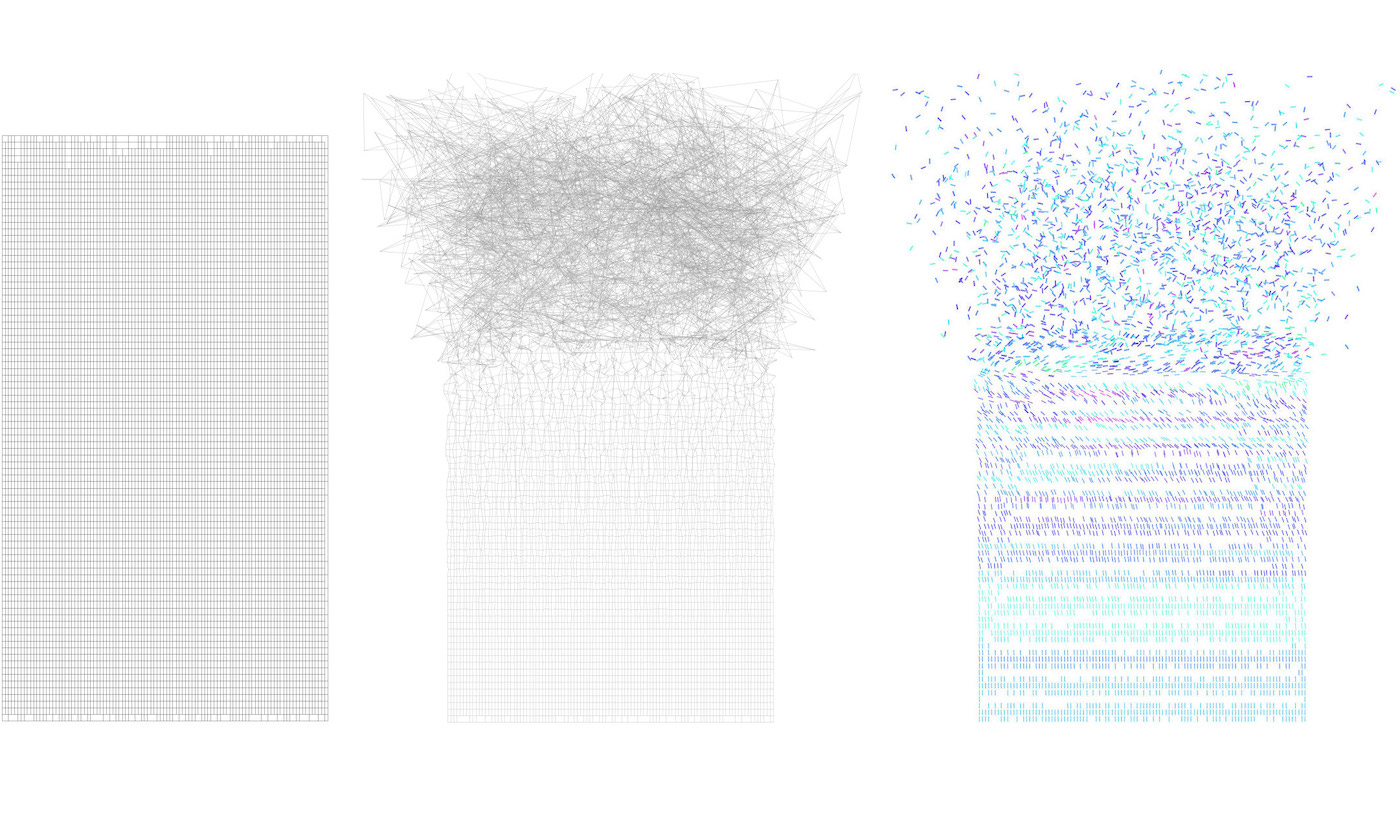
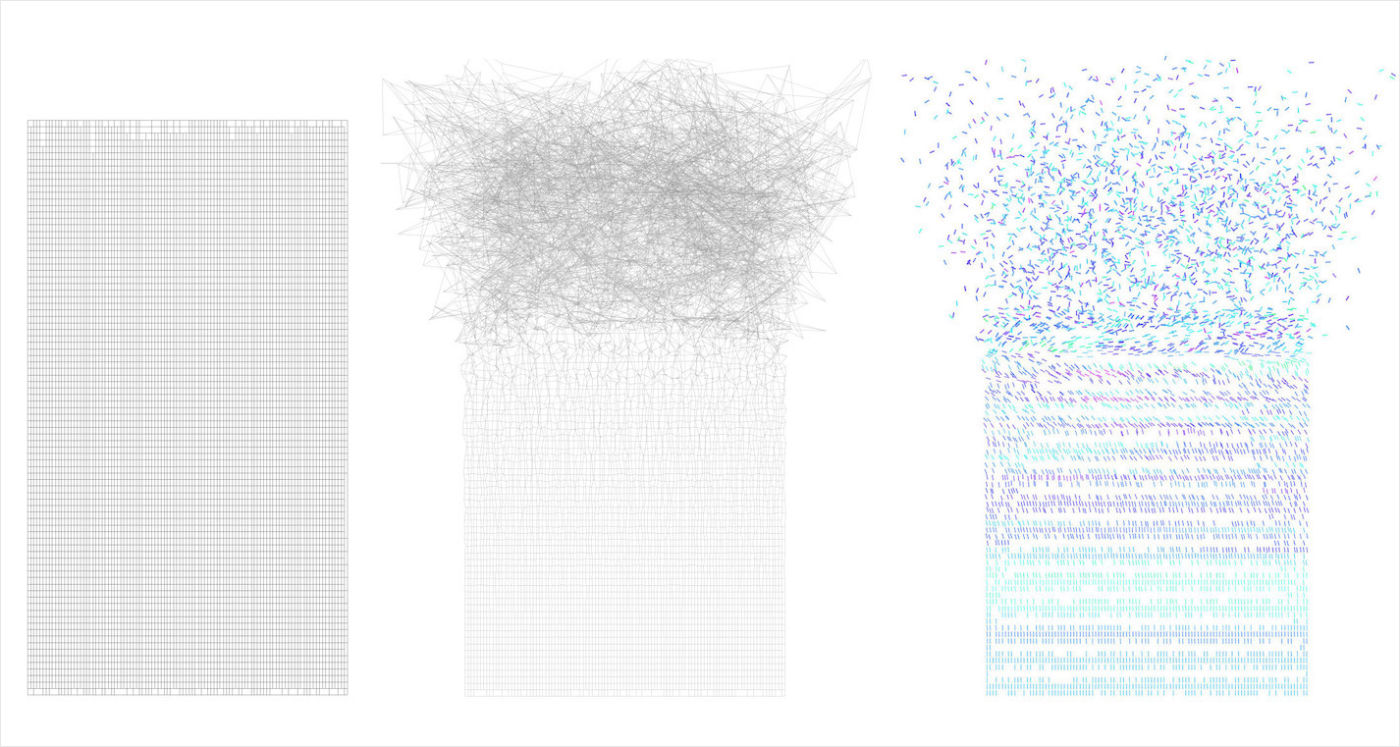
add hacf text, adjust hacf image

diff --git a/content/projects/hacf/index.md b/content/projects/hacf/index.md
@@ -1,20 +1,28 @@
 ---
-title: Hand of Ouroboros 
+title: Halt And Catch Fire posters 
 slug: hand-of-ouroboros
 date: 2020-11-15T21:12:19+01:00
+year: 2017
 type: project
 layout: project
 categories:
-  - graphic
+  - visual 
+competencies:
+  - graphic design
+  - Processing development
+  - 3D modelling
 draft: false
 show_thumbnail_in_post: false
 position_in_projects_grid: 0
 position_in_column: 3
 ---
-
-I designed this poster as a tribute to my favorite tv show. Like Ouroboros, stuck in the infinite life–death cycle. The characters of the series struggle for success in a contest for the next best thing a computer can provide. Regardless of the outcome.
-
 {{< img src="image/hacf1.jpg">}}
-{{< img src="image/hacf4.jpg">}}
-{{< img src="image/hacf3.jpg">}}
+{{< competencies >}}
+
+I designed this poster as a tribute to my favorite tv show. The characters of the Halt And Catch Fire series struggle to come up with the next best thing in the computer world of the 80's. Only to be be surpassed in the last moment by a competitor, nevertheless they rise up and start over. To create these visuals I developed a generative system in Processing and 3D scanned my hand.
+
+{{< img src="image/hacf3.jpg" caption="The generative process" alt="a triptych showing the generative process step by step: a uniform greyscale grid of lines, distorted grid, the distorted grid populated with blue, green and purple rectangles">}}
+
+{{< img src="image/hacf4.jpg" caption="The generated grids were later used as standalone prints and were on display at the 2017 Sensorium festival In Bratislava" alt="a triptych showing 3 distorted grids populated with different blue, green, purple geometric shapes">}}
+
 

diff --git a/content/projects/software_leaks/index.md b/content/projects/software_leaks/index.md
@@ -16,7 +16,7 @@ position_in_projects_grid: 2
 position_in_column: 2
 
 ---
-{{< zoomable_img src="image/leaks1.jpg" hq_src="image/leaks1-hq.jpg" caption="Very weird things" alt="ff" >}}
+{{< zoomable_img src="image/leaks1.jpg" hq_src="image/leaks1-hq.jpg" alt="a mostly black and white map of relationships between governments and the software weapons that were leaked" >}}
 {{< competencies >}}
 
 
